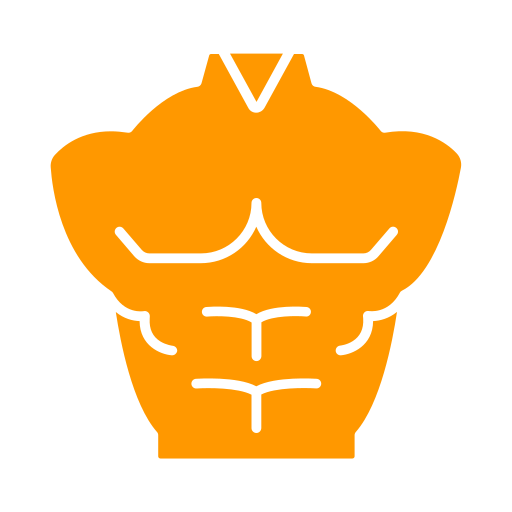
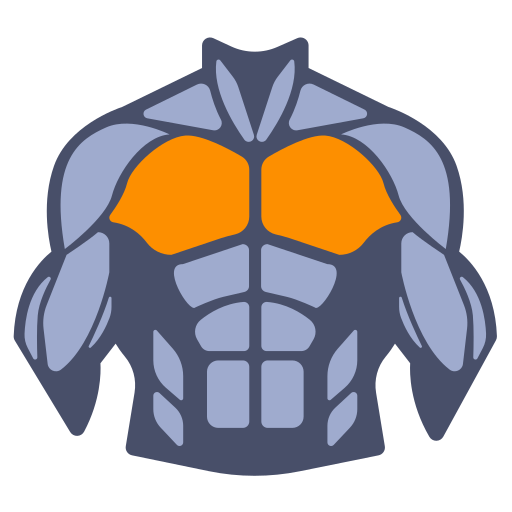
Añadir nuevos iconos de músculos, gestionar la selección del icono y pasar colecciones a utils

diff --git a/src/main/java/epicfitpc/bbdd/GestorDeWorkouts.java b/src/main/java/epicfitpc/bbdd/GestorDeWorkouts.java
@@ -7,16 +7,17 @@ import java.util.concurrent.ExecutionException;
 import com.google.api.core.ApiFuture;
 import com.google.cloud.firestore.CollectionReference;
 import com.google.cloud.firestore.Firestore;
+import com.google.cloud.firestore.Query;
 import com.google.cloud.firestore.QueryDocumentSnapshot;
 import com.google.cloud.firestore.QuerySnapshot;
 
 import epicfitpc.modelo.Ejercicio;
 import epicfitpc.modelo.Workout;
+import epicfitpc.utils.DBUtils;
 
 public class GestorDeWorkouts {
 
 	private Firestore db = null;
-	private static final String COLLECTION = "Workouts";
 
 	public GestorDeWorkouts(Firestore db) {
 		this.db = db;
@@ -25,7 +26,7 @@ public class GestorDeWorkouts {
 	public ArrayList<Workout> obtenerTodosLosWorkouts() throws InterruptedException, ExecutionException {
 		ArrayList<Workout> workouts = null;
 
-		CollectionReference workoutsDb = db.collection(COLLECTION);
+		CollectionReference workoutsDb = db.collection(DBUtils.WORKOUTS);
 		ApiFuture<QuerySnapshot> futureQuery = workoutsDb.get();
 		QuerySnapshot querySnapshot = null;
 
@@ -72,8 +73,8 @@ public class GestorDeWorkouts {
 	public ArrayList<Workout> obtenerWorkoutsPorNivelUsuario(int nivelUsuario) throws InterruptedException, ExecutionException {
 		ArrayList<Workout> workouts = null;
 
-		CollectionReference workoutsDb = db.collection(COLLECTION);
-		ApiFuture<QuerySnapshot> futureQuery = workoutsDb.whereLessThanOrEqualTo("nivel", nivelUsuario).get();
+		CollectionReference workoutsDb = db.collection(DBUtils.WORKOUTS);
+		ApiFuture<QuerySnapshot> futureQuery = workoutsDb.whereLessThanOrEqualTo("nivel", nivelUsuario).orderBy("nivel", Query.Direction.DESCENDING).get();
 		QuerySnapshot querySnapshot = null;
 
 		try {

diff --git a/src/main/java/epicfitpc/vista/componentes/WorkoutEjItemPanel.java b/src/main/java/epicfitpc/vista/componentes/WorkoutEjItemPanel.java
@@ -41,17 +41,17 @@ public class WorkoutEjItemPanel extends JPanel {
 		setOpaque(false);
 		setBackground(Estilos.CARD_BACKGROUND);
 
-		JLabelTitle lblNombre = new JLabelTitle(ejercicio.getNombre());
-		JLabel lblSeries = new JLabel("<html><b>Series</b>: " + ejercicio.getSeries() + "</html>");
-		JLabel lblRepeticiones = new JLabel("<html><b>Repeticiones</b>: " + ejercicio.getRepeticiones() + "</html>");
+		JLabelTitle lblNombre = new JLabelTitle(ejercicio.getOrden() + ". " + ejercicio.getNombre());
+		JLabel lblSeries = new JLabel("<html>&nbsp;&nbsp;&nbsp;&nbsp;&nbsp;<b>Series</b>: " + ejercicio.getSeries() + "</html>");
+		JLabel lblRepeticiones = new JLabel("<html>&nbsp;&nbsp;&nbsp;&nbsp;&nbsp;<b>Repeticiones</b>: " + ejercicio.getRepeticiones() + "</html>");
 
 		// Obtener el tiempo en segundos
 		int tiempoEnSegundos = ejercicio.getTiempoSerie();
 ;
 		String tiempoFormateado = DateUtils.formatearTiempo(tiempoEnSegundos);
-		JLabel lblTiempo = new JLabel("<html><b>Tiempo por serie</b>: " + tiempoFormateado + "</html>");
+		JLabel lblTiempo = new JLabel("<html>&nbsp;&nbsp;&nbsp;&nbsp;&nbsp;<b>Tiempo por serie</b>: " + tiempoFormateado + "</html>");
 
-		JLabel lblTiempoDescanso = new JLabel("<html><b>Tiempo descanso</b>: " + ejercicio.getDescanso() + "s" + "</html>");
+		JLabel lblTiempoDescanso = new JLabel("<html>&nbsp;&nbsp;&nbsp;&nbsp;&nbsp;<b>Tiempo descanso</b>: " + ejercicio.getDescanso() + " s" + "</html>");
 
 		add(lblNombre);
 		add(lblSeries);

diff --git a/src/main/java/epicfitpc/bbdd/GestorDeUsuarios.java b/src/main/java/epicfitpc/bbdd/GestorDeUsuarios.java
@@ -21,6 +21,7 @@ import com.google.cloud.firestore.QuerySnapshot;
 
 import epicfitpc.modelo.Historico;
 import epicfitpc.modelo.Usuario;
+import epicfitpc.utils.DBUtils;
 
 public class GestorDeUsuarios {
 	
@@ -32,7 +33,7 @@ public class GestorDeUsuarios {
 
 	public ArrayList<Usuario> obtenerTodosLosUsuarios() throws InterruptedException, ExecutionException {
 		ArrayList<Usuario> usuarios = null;
-		CollectionReference usuariosDb = db.collection("Usuarios");
+		CollectionReference usuariosDb = db.collection(DBUtils.USUARIOS);
 		ApiFuture<QuerySnapshot> futureQuery = usuariosDb.get();
 		QuerySnapshot querySnapshot = null;
 		
@@ -68,7 +69,7 @@ public class GestorDeUsuarios {
 	// Para el backup
 	public ArrayList<Usuario> obtenerUsuariosConHistoricos() throws InterruptedException, ExecutionException {
 		ArrayList<Usuario> usuarios = null;
-		CollectionReference usuariosDb = db.collection("Usuarios");
+		CollectionReference usuariosDb = db.collection(DBUtils.USUARIOS);
 		ApiFuture<QuerySnapshot> futureQuery = usuariosDb.get();
 		QuerySnapshot querySnapshot = null;
 		
@@ -110,7 +111,7 @@ public class GestorDeUsuarios {
 		user.put("esEntrenador", usuario.isEsEntrenador());
 		user.put("nivel", usuario.getNivel());
 
-		CollectionReference usuarios = db.collection("Usuarios");
+		CollectionReference usuarios = db.collection(DBUtils.USUARIOS);
 		DocumentReference devolver = usuarios.add(user).get();
 		if (devolver.getId() != null)
 			return true;

diff --git a/src/main/java/epicfitpc/modelo/Ejercicio.java b/src/main/java/epicfitpc/modelo/Ejercicio.java
@@ -11,6 +11,7 @@ public class Ejercicio implements Serializable {
 	private int tiempoSerie = 0;
 	private int descanso = 0;
 	private int series = 0;
+	private int orden = 0;
 
 	public Ejercicio() {
 		// Constructor vacío
@@ -64,9 +65,17 @@ public class Ejercicio implements Serializable {
 		this.series = series;
 	}
 
+	public int getOrden() {
+		return orden;
+	}
+
+	public void setOrden(int orden) {
+		this.orden = orden;
+	}
+
 	@Override
 	public int hashCode() {
-		return Objects.hash(descanso, id, nombre, repeticiones, series, tiempoSerie);
+		return Objects.hash(descanso, id, nombre, orden, repeticiones, series, tiempoSerie);
 	}
 
 	@Override
@@ -79,13 +88,14 @@ public class Ejercicio implements Serializable {
 			return false;
 		Ejercicio other = (Ejercicio) obj;
 		return descanso == other.descanso && Objects.equals(id, other.id) && Objects.equals(nombre, other.nombre)
-				&& repeticiones == other.repeticiones && series == other.series && tiempoSerie == other.tiempoSerie;
+				&& orden == other.orden && repeticiones == other.repeticiones && series == other.series
+				&& tiempoSerie == other.tiempoSerie;
 	}
 
 	@Override
 	public String toString() {
 		return "Ejercicio [id=" + id + ", nombre=" + nombre + ", repeticiones=" + repeticiones + ", tiempoSerie="
-				+ tiempoSerie + ", descanso=" + descanso + ", series=" + series + "]";
+				+ tiempoSerie + ", descanso=" + descanso + ", series=" + series + ", orden=" + orden + "]";
 	}
 
 }

diff --git a/src/main/java/epicfitpc/bbdd/GestorDeEjercicios.java b/src/main/java/epicfitpc/bbdd/GestorDeEjercicios.java
@@ -7,17 +7,17 @@ import java.util.concurrent.ExecutionException;
 import com.google.api.core.ApiFuture;
 import com.google.cloud.firestore.CollectionReference;
 import com.google.cloud.firestore.Firestore;
+import com.google.cloud.firestore.Query;
 import com.google.cloud.firestore.QueryDocumentSnapshot;
 import com.google.cloud.firestore.QuerySnapshot;
 
 import epicfitpc.modelo.Ejercicio;
 import epicfitpc.modelo.Workout;
+import epicfitpc.utils.DBUtils;
 
 public class GestorDeEjercicios {
 
 	private Firestore db = null;
-	private static final String COLLECTION_EJERCICIOS = "Ejercicios";
-	private static final String COLLECTION_WORKOUTS = "Workouts";
 
 	public GestorDeEjercicios(Firestore db) {
 		this.db = db;
@@ -28,8 +28,8 @@ public class GestorDeEjercicios {
 		ArrayList<Ejercicio> ejercicios = null;
 		String idWorkout = workout.getId();
 
-		CollectionReference ejerciciosDb = db.collection(COLLECTION_WORKOUTS).document(idWorkout).collection(COLLECTION_EJERCICIOS);
-		ApiFuture<QuerySnapshot> futureQuery = ejerciciosDb.get();
+		CollectionReference ejerciciosDb = db.collection(DBUtils.WORKOUTS).document(idWorkout).collection(DBUtils.EJERCICIOS);
+		ApiFuture<QuerySnapshot> futureQuery = ejerciciosDb.orderBy("orden", Query.Direction.ASCENDING).get();
 		QuerySnapshot querySnapshot = null;
 
 		try {

diff --git a/src/main/java/epicfitpc/bbdd/GestorDeHistoricos.java b/src/main/java/epicfitpc/bbdd/GestorDeHistoricos.java
@@ -14,13 +14,12 @@ import com.google.cloud.firestore.QuerySnapshot;
 import epicfitpc.modelo.Historico;
 import epicfitpc.modelo.Usuario;
 import epicfitpc.modelo.Workout;
+import epicfitpc.utils.DBUtils;
 
 import com.google.cloud.firestore.Query;
 
 public class GestorDeHistoricos {
 	private Firestore db = null;
-	private static final String COLLECTION_HISTORICOS = "Historicos";
-	private static final String COLLECTION_USUARIOS = "Usuarios";
 
 	public GestorDeHistoricos(Firestore db) {
 		this.db = db;
@@ -31,7 +30,7 @@ public class GestorDeHistoricos {
 		ArrayList<Historico> historicos = null;
 		
 		String idUsuario = usuario.getId();
-		CollectionReference historicosDb = db.collection(COLLECTION_USUARIOS).document(idUsuario).collection(COLLECTION_HISTORICOS);
+		CollectionReference historicosDb = db.collection(DBUtils.USUARIOS).document(idUsuario).collection(DBUtils.HISTORICOS);
 		ApiFuture<QuerySnapshot> futureQuery = historicosDb.orderBy("fecha", Query.Direction.DESCENDING).get();
 		QuerySnapshot querySnapshot = null;
 

diff --git a/src/main/java/epicfitpc/utils/ImageUtils.java b/src/main/java/epicfitpc/utils/ImageUtils.java
@@ -1,0 +1,41 @@
+package epicfitpc.utils;
+
+public class ImageUtils {
+	
+	private ImageUtils() {
+		
+	}
+
+    public static String obtenerRutaImagen(String tipo) {
+        String ruta;
+        
+        switch (tipo) {
+            case "biceps":
+                ruta = Rutas.IMG_BICEPS;
+                break;
+            case "triceps":
+                ruta = Rutas.IMG_TRICEPS;
+                break;
+            case "abdominales":
+                ruta = Rutas.IMG_ABS;
+                break;
+            case "espalda":
+                ruta = Rutas.IMG_ESPALDA;
+                break;
+            case "gluteos":
+                ruta = Rutas.IMG_GLUTEOS;
+                break;
+            case "pecho":
+                ruta = Rutas.IMG_PECHO;
+                break;
+            case "piernas":
+                ruta = Rutas.IMG_PIERNAS;
+                break;
+            default:
+                ruta = Rutas.IMG_EJERCICIO;
+                break;
+        }
+        
+        return ruta;
+    }
+}

diff --git a/src/main/java/epicfitpc/utils/Rutas.java b/src/main/java/epicfitpc/utils/Rutas.java
@@ -6,10 +6,17 @@ public class Rutas {
 		
 	}
 	
-	// Imágenes
-	public static final String IMG_BRAZO = "src/main/resources/img/workout/brazo.png";
+	// Imágenes workout
+	public static final String IMG_BICEPS = "src/main/resources/img/workout/biceps.png";
+	public static final String IMG_TRICEPS = "src/main/resources/img/workout/triceps.png";
 	public static final String IMG_PECHO = "src/main/resources/img/workout/pecho.png";
+	public static final String IMG_PIERNAS = "src/main/resources/img/workout/piernas.png";
+	public static final String IMG_ABS = "src/main/resources/img/workout/abs.png";
+	public static final String IMG_GLUTEOS = "src/main/resources/img/workout/gluteos.png";
+	public static final String IMG_ESPALDA = "src/main/resources/img/workout/espalda.png";
 	public static final String IMG_EJERCICIO = "src/main/resources/img/workout/ejercicio.png";
+	
+	// Logos
 	public static final String LOGO_EF = "src/main/resources/img/logos/logo_ef.png";
 	
 	// Iconos

diff --git a/src/main/java/epicfitpc/vista/componentes/HistoricoItemPanel.java b/src/main/java/epicfitpc/vista/componentes/HistoricoItemPanel.java
@@ -10,7 +10,7 @@ import com.google.cloud.Timestamp;
 import epicfitpc.modelo.Historico;
 import epicfitpc.utils.DateUtils;
 import epicfitpc.utils.Estilos;
-import epicfitpc.utils.Rutas;
+import epicfitpc.utils.ImageUtils;
 import epicfitpc.utils.WindowUtils;
 
 import java.awt.Graphics;
@@ -59,19 +59,7 @@ public class HistoricoItemPanel extends JPanel {
         gbc.weighty = 1.0;
         
         String tipo = historico.getWorkoutObj().getTipo();
-        String ruta = null;
-        switch (tipo){
-        	case "brazo":
-        		ruta = Rutas.IMG_BRAZO;
-        		break;
-        	case "pecho":
-        		ruta = Rutas.IMG_PECHO;
-        		break;
-        	case "default":
-        		ruta = Rutas.IMG_EJERCICIO;
-        		break;
-        }
-        
+        String ruta = ImageUtils.obtenerRutaImagen(tipo);
         ImageIcon img = WindowUtils.cargarImagen(ruta, 80, 80);
         JLabel labelImg = new JLabel(img);
         add(labelImg, gbc);

diff --git a/src/main/java/epicfitpc/vista/componentes/WorkoutItemPanel.java b/src/main/java/epicfitpc/vista/componentes/WorkoutItemPanel.java
@@ -4,7 +4,7 @@ import javax.swing.*;
 import javax.swing.border.EmptyBorder;
 import epicfitpc.modelo.Workout;
 import epicfitpc.utils.Estilos;
-import epicfitpc.utils.Rutas;
+import epicfitpc.utils.ImageUtils;
 import epicfitpc.utils.WindowUtils;
 import epicfitpc.utils.DateUtils;
 import java.awt.*;
@@ -45,18 +45,7 @@ public class WorkoutItemPanel extends JPanel {
         gbc.weighty = 1.0;
         
         String tipo = workout.getTipo();
-        String ruta = null;
-        switch (tipo){
-        	case "brazo":
-        		ruta = Rutas.IMG_BRAZO;
-        		break;
-        	case "pecho":
-        		ruta = Rutas.IMG_PECHO;
-        		break;
-        	case "default":
-        		ruta = Rutas.IMG_EJERCICIO;
-        		break;
-        }
+        String ruta = ImageUtils.obtenerRutaImagen(tipo);
         
         ImageIcon img = WindowUtils.cargarImagen(ruta, 80, 80);
         JLabel labelImg = new JLabel(img);

diff --git a/src/main/java/epicfitpc/utils/DBUtils.java b/src/main/java/epicfitpc/utils/DBUtils.java
@@ -1,0 +1,16 @@
+package epicfitpc.utils;
+
+public class DBUtils {
+	
+	private DBUtils() {
+		
+	}
+	
+	// Colecciones
+	public static final String USUARIOS = "Usuarios";
+	public static final String WORKOUTS = "Workouts";
+	
+	// Subcolecciones
+	public static final String EJERCICIOS = "Ejercicios";
+	public static final String HISTORICOS = "Historicos";
+}
